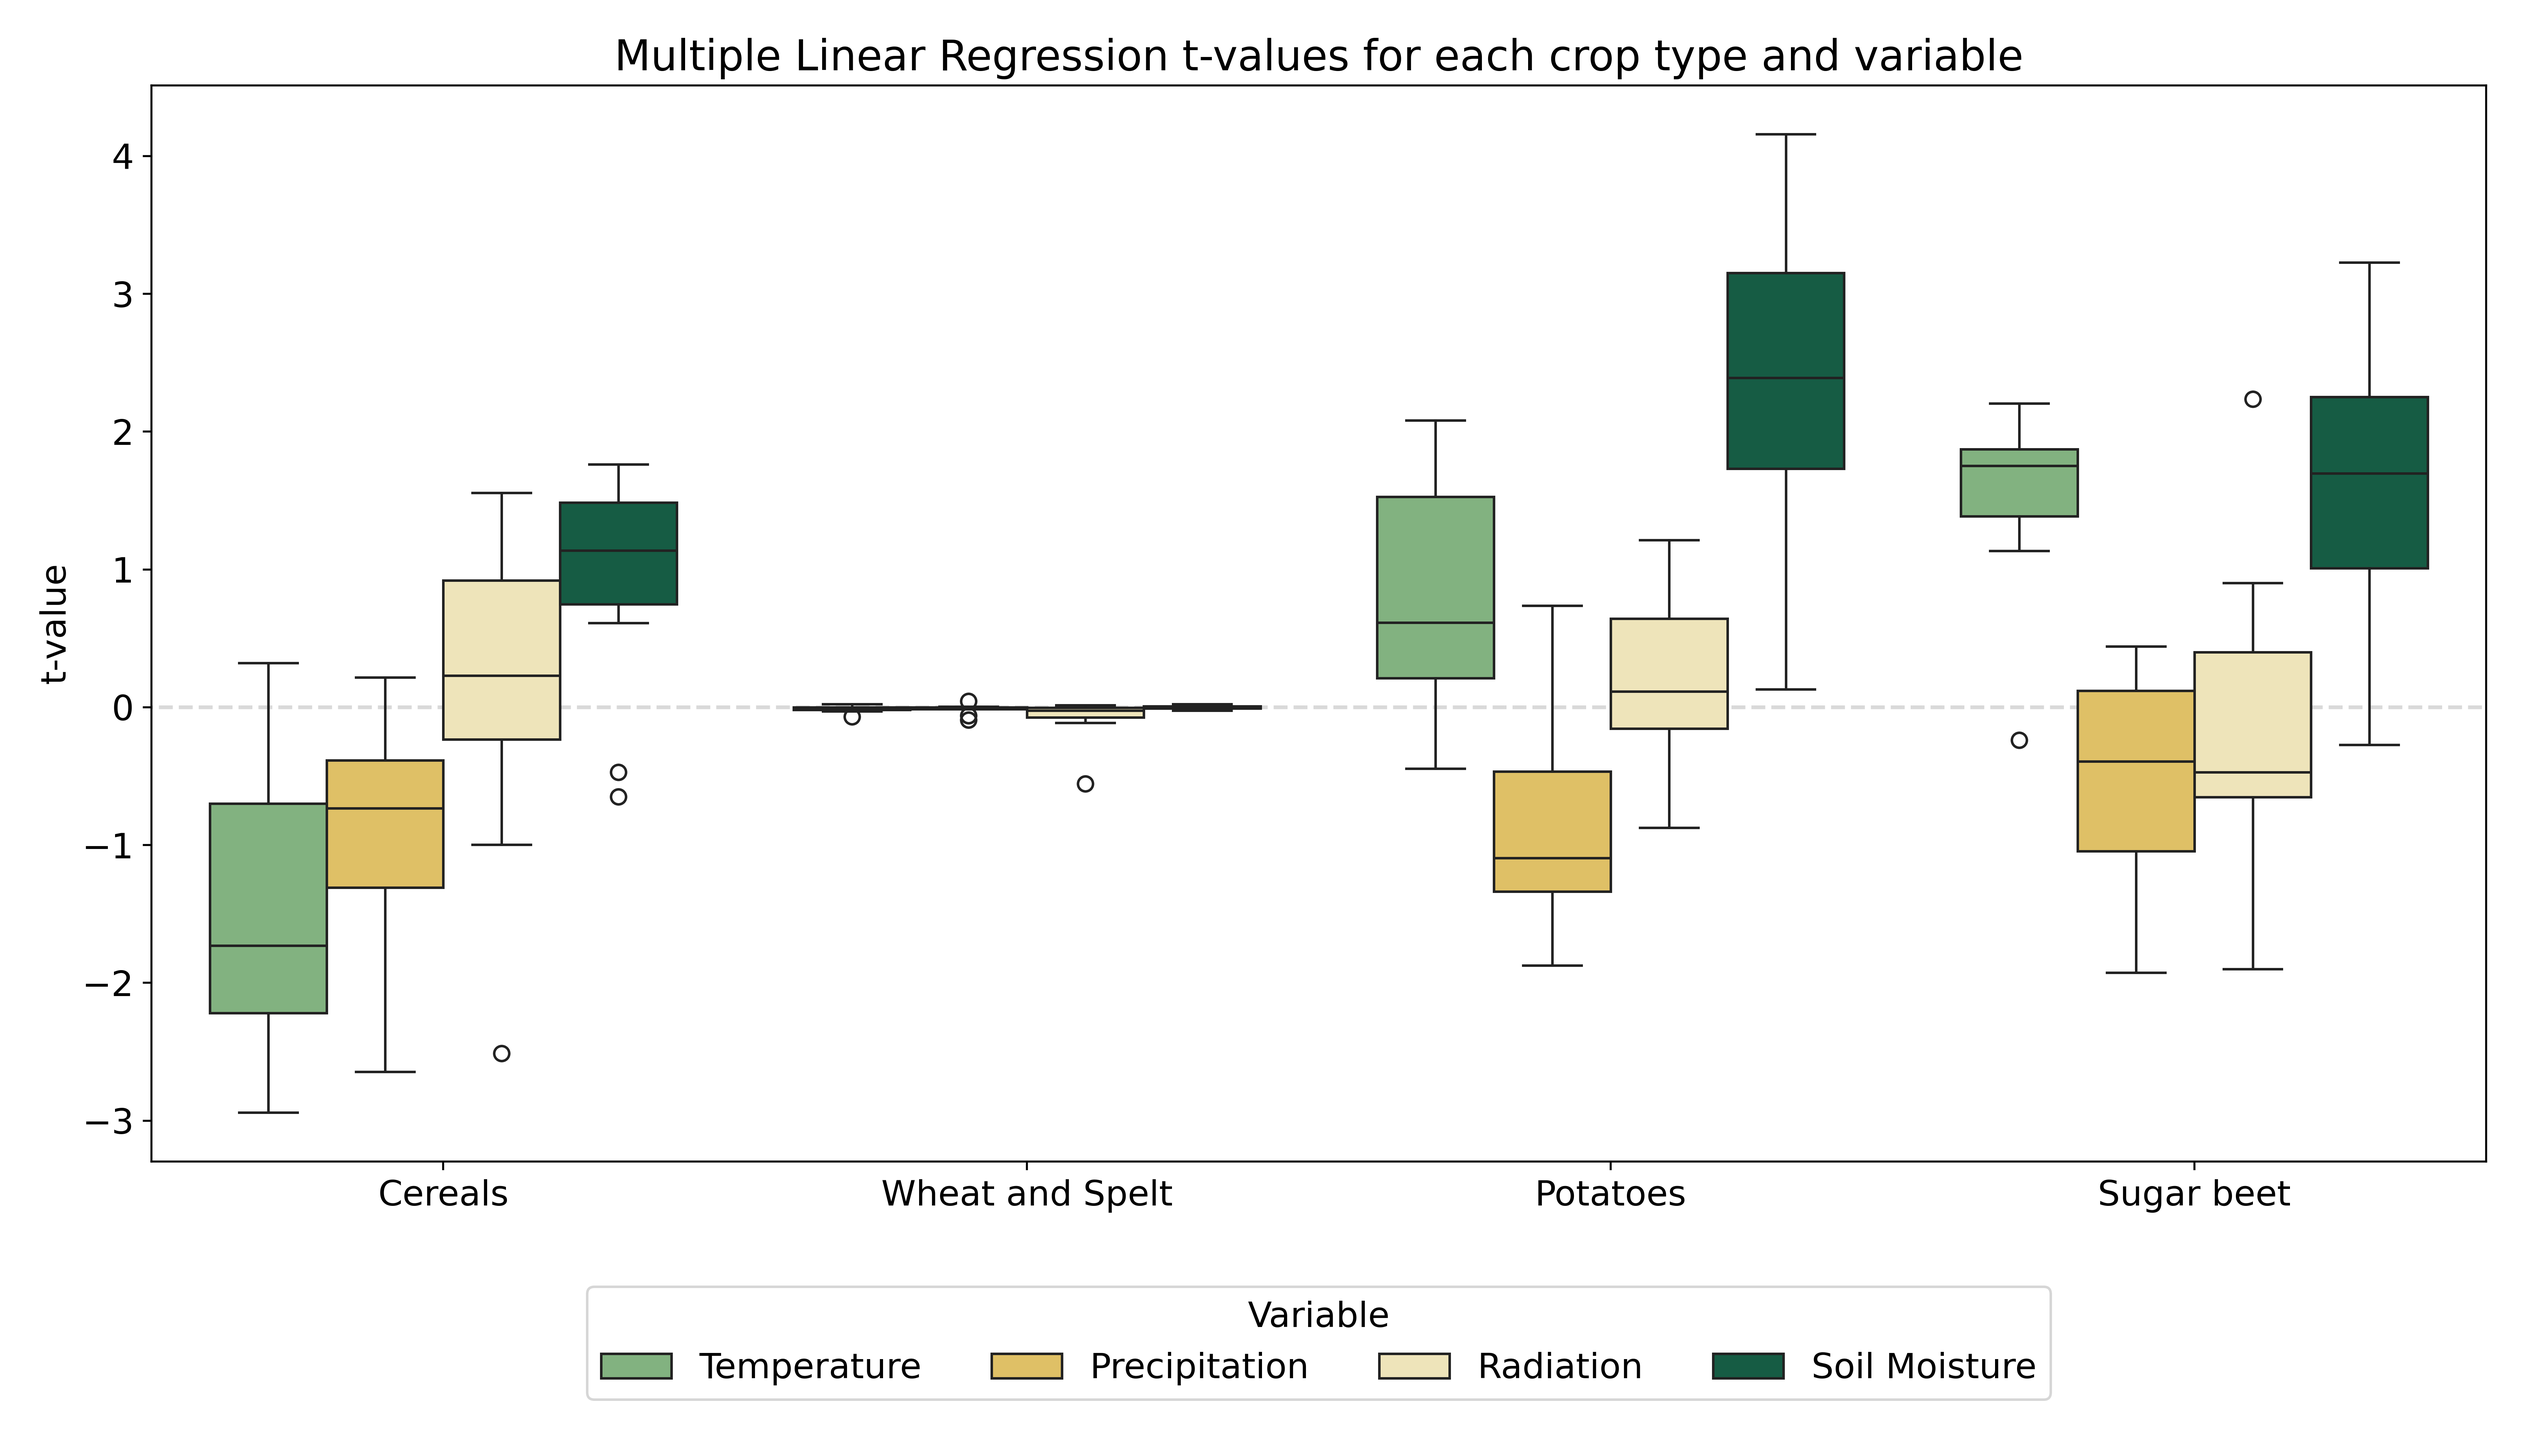
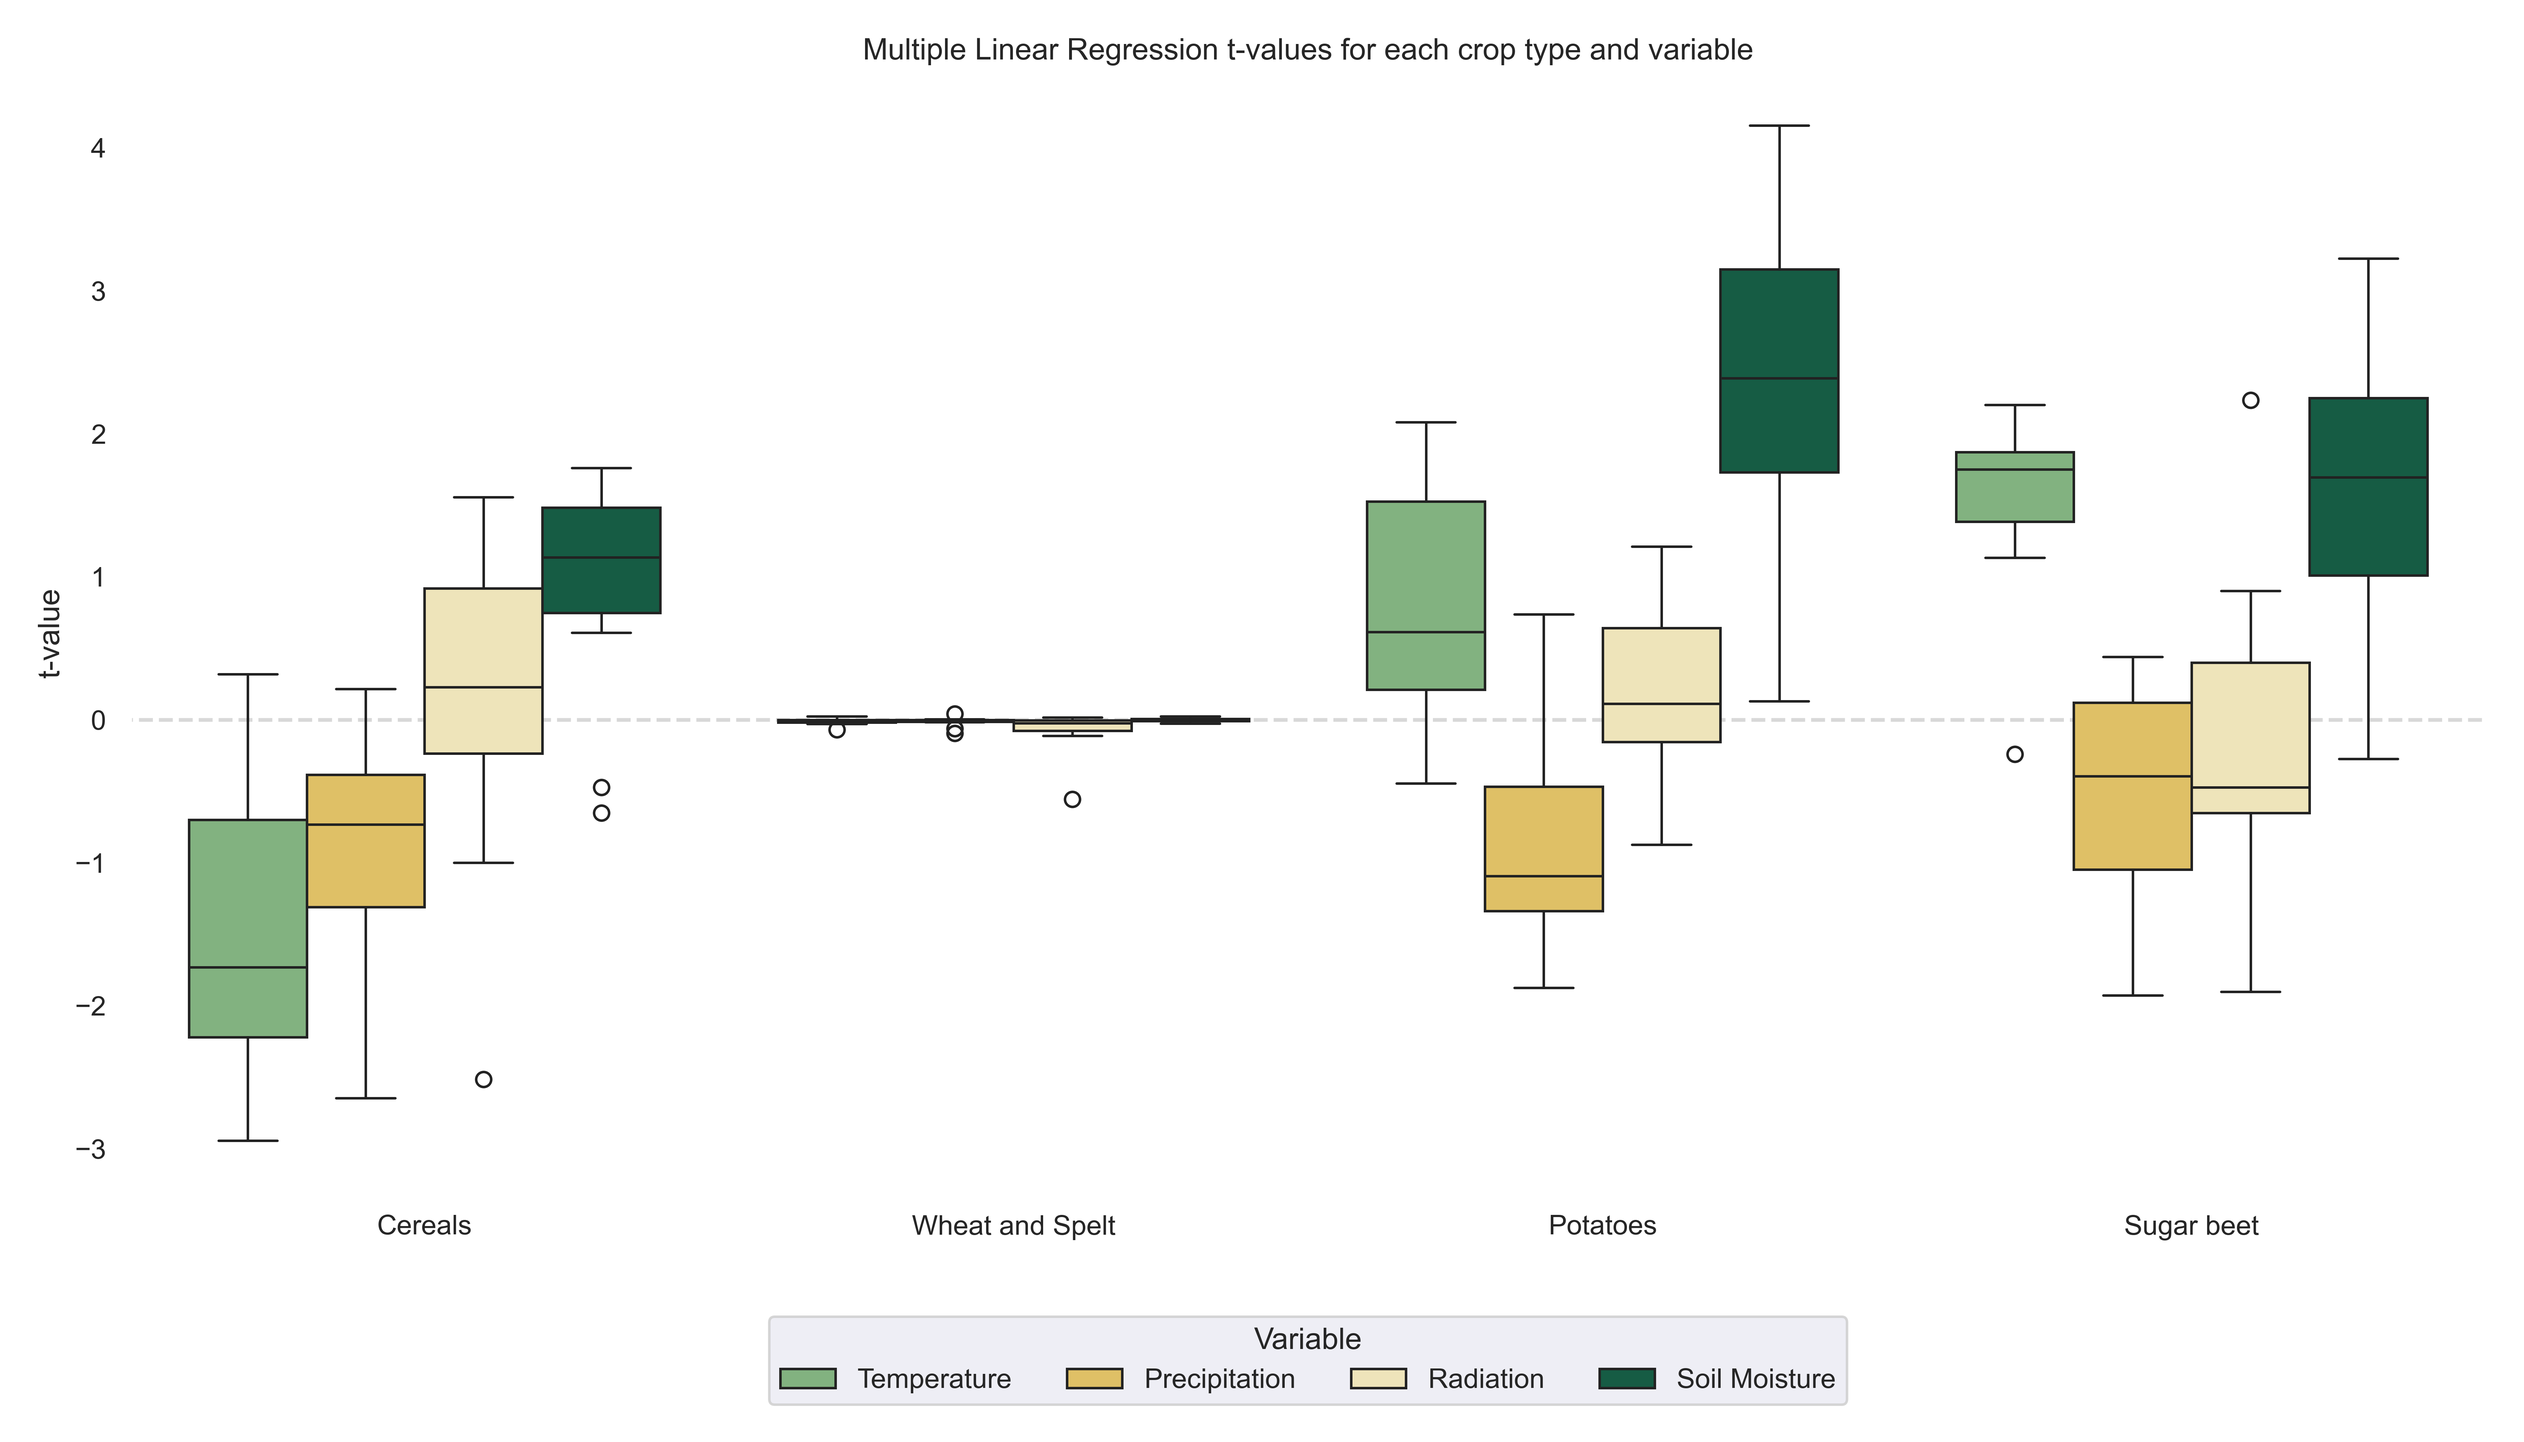
updated figures

diff --git a/crop_yield/multipleregression.py b/crop_yield/multipleregression.py
@@ -99,7 +99,7 @@ def with_soil_moisture():
     with open("mean_std_table_wSM.tex", 'w') as f:
         f.write(mean_std_latex)
     df_melted = pd.melt(results_df, id_vars=['NUTS_ID', 'crop'], var_name='Variable', value_name='t_value')
-
+    sns.set_theme()
     # Plot
     custom_palette = {"Temperature": "#7ABA78", "Precipitation": "#F3CA52", "Radiation": "#F6E9B2", "Soil Moisture": '#0A6847'}
     plt.figure(figsize=(14, 8))
@@ -210,6 +210,7 @@ def without_soil_moisture():
     df_melted = pd.melt(results_df, id_vars=['NUTS_ID', 'crop'], var_name='Variable', value_name='t_value')
 
     # Plot
+    sns.set_theme()
     custom_palette = {"Temperature": "#7ABA78", "Precipitation": "#F3CA52", "Radiation": "#F6E9B2", "Soil Moisture": '#0A6847'}
     plt.figure(figsize=(14, 8))
     plt.rcParams.update({'font.size': 14})
@@ -229,6 +230,7 @@ def without_soil_moisture():
     plt.show()
 
 def correlation():
+    
     results_df = pd.DataFrame(columns=['NUTS_ID', 'crop', 'Temperature', 'Precipitation', 'Radiation', 'Soil Moisture'])
     crop = 'C0000'
     state = 'DE4'
@@ -275,6 +277,6 @@ def correlation():
     plt.show()
     print(correlation_matrix)
     print(correlation_matrix_sum)
-#with_soil_moisture()
-#without_soil_moisture()
-correlation()
+with_soil_moisture()
+without_soil_moisture()
+#correlation()

diff --git a/crop_yield/visualisation_waterstress.py b/crop_yield/visualisation_waterstress.py
@@ -94,8 +94,8 @@ for date in date_ticks:
 
 
 ax.set_xticks(middles, season_ticks)"""
-#fig = plt.figure(facecolor='#0A6847')
-#plt.gca().set_facecolor('#0A6847')
+"""fig = plt.figure(facecolor='#0A6847')
+plt.gca().set_facecolor('#0A6847')"""
 sns.set_theme()
 plt.fill_between(dates[zero_to_nonzero:max_stress], soil_moisture[zero_to_nonzero:max_stress], water_stress_value, color='red', alpha=0.5)
 plt.fill_between(dates[max_stress:nonzero_to_zero], soil_moisture[max_stress:nonzero_to_zero], water_stress_value, color='green', alpha=0.5)
@@ -109,7 +109,7 @@ plt.gca().axes.get_yaxis().set_visible(False)
 plt.gca().xaxis.set_major_formatter(mdates.DateFormatter('%B'))
 plt.legend(loc='best')
 plt.xticks(rotation=45)
-plt.savefig('crop_yield/Figures/soil_moisture.png', dpi= 500)#, transparent=True)
+plt.savefig('crop_yield/Figures/soil_moisture.png', dpi= 500, transparent=True)
 plt.show()
 
 
